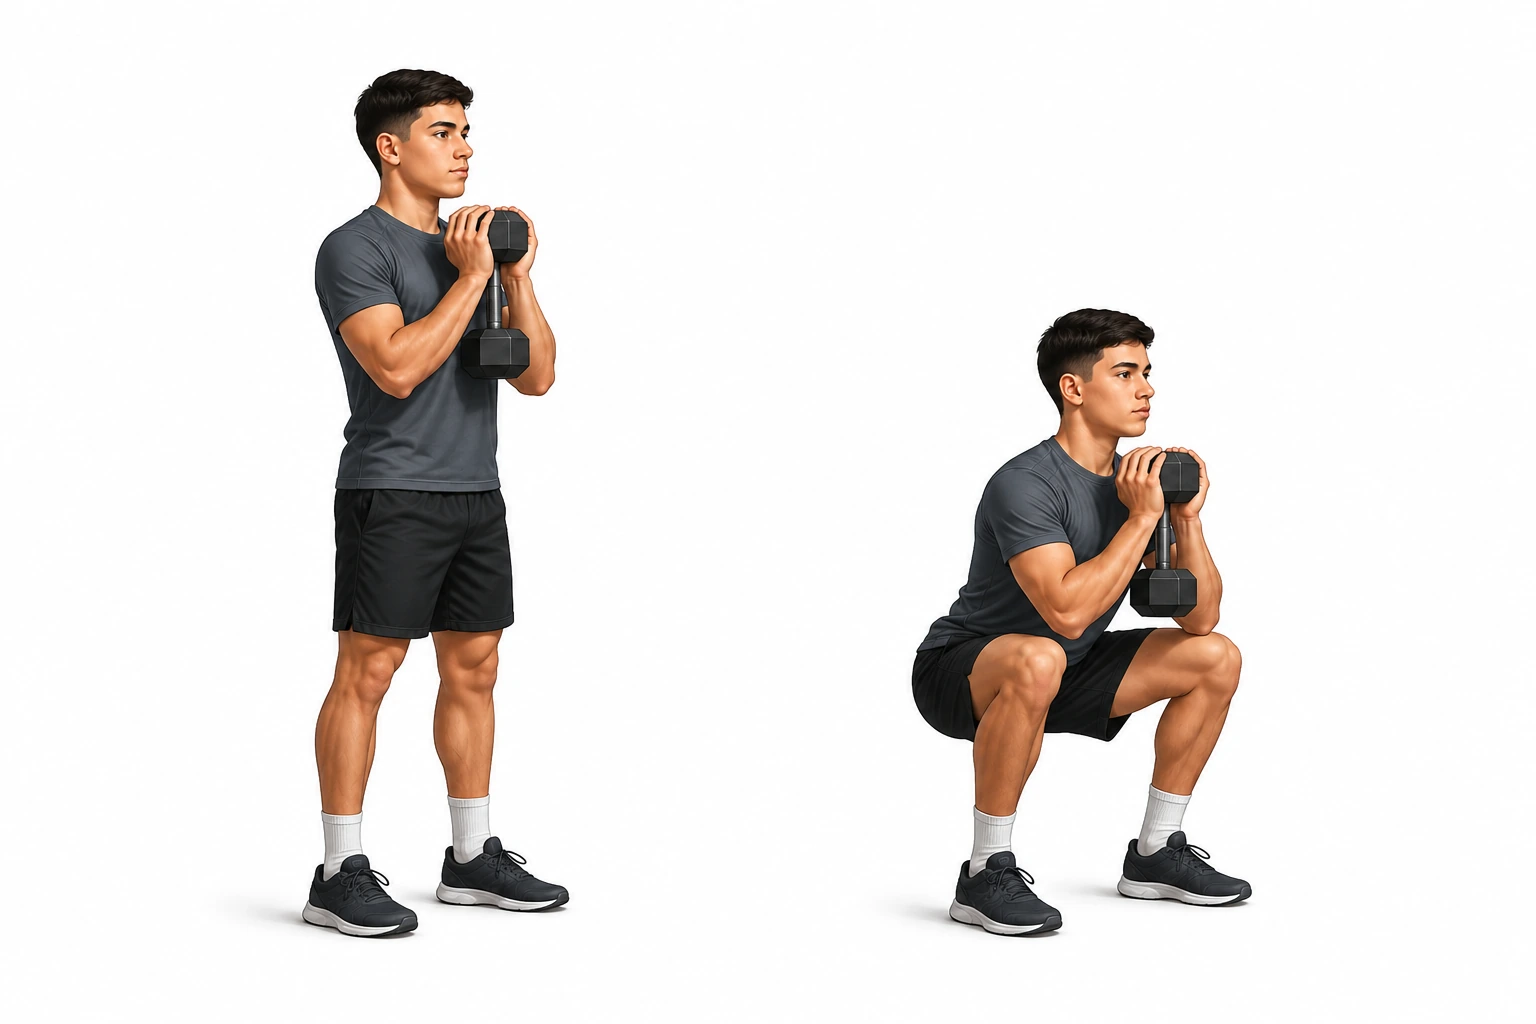
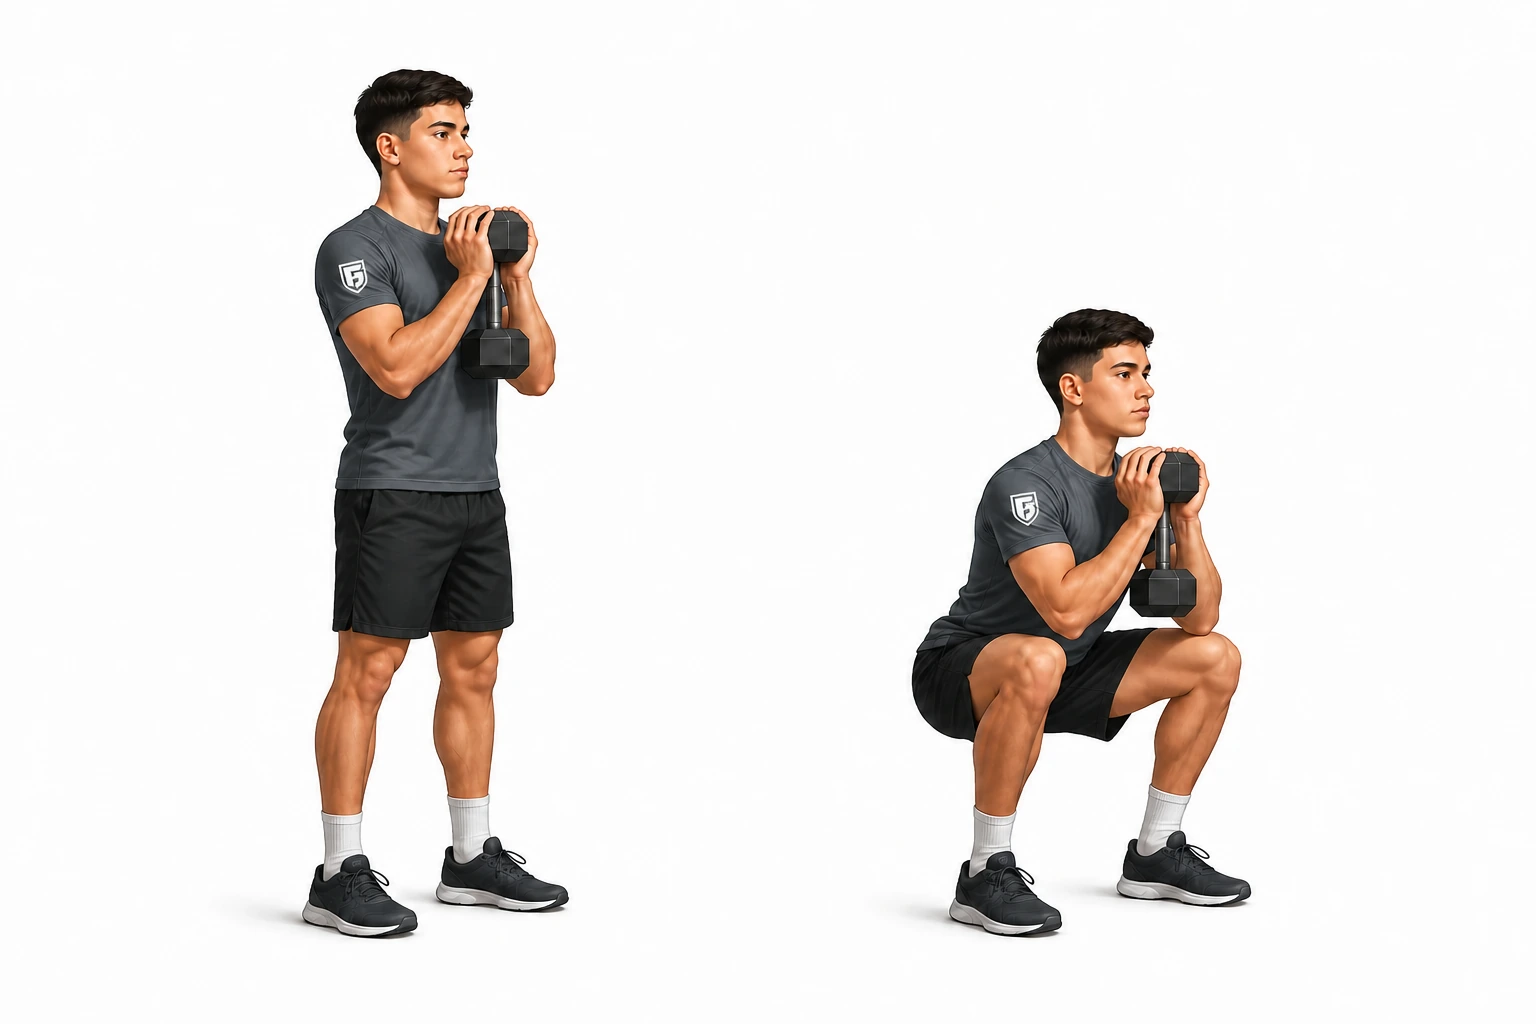
visual: approve EX-002 level 1 and add level 2 candidate

diff --git a/assets/exercises/ex-002/web/ex-002-goblet-squat-web.html b/assets/exercises/ex-002/web/ex-002-goblet-squat-web.html
@@ -1,0 +1,111 @@
+<!doctype html>
+<html lang="es">
+<head>
+  <meta charset="utf-8">
+  <meta name="viewport" content="width=device-width,initial-scale=1">
+  <title>EX-002 — Sentadilla goblet · Nivel 2</title>
+  <style>
+    :root {
+      --navy: #0b2a4a;
+      --blue: #1f5a9d;
+      --blue-soft: #e6f0fb;
+      --ink: #1a1f26;
+      --muted: #667085;
+      --line: #cbd9e8;
+      --paper: #ffffff;
+      --canvas: #f2f4f7;
+      --mint: #e8f7f1;
+      --red: #c6283d;
+      --red-soft: #fff1f2;
+    }
+    * { box-sizing: border-box; }
+    html, body { margin: 0; width: 1440px; height: 990px; overflow: hidden; }
+    body { background: var(--canvas); color: var(--ink); font-family: Inter, "Segoe UI", Arial, sans-serif; }
+    main { display: grid; grid-template-rows: 96px 1fr 58px; width: 100%; height: 100%; background: var(--paper); }
+    header { display: flex; align-items: center; justify-content: space-between; padding: 18px 44px; color: white; background: var(--navy); }
+    header img { width: 226px; height: 56px; object-fit: contain; filter: brightness(0) invert(1); }
+    header span { font-size: 15px; font-weight: 700; letter-spacing: .22em; text-transform: uppercase; }
+    .content { display: grid; grid-template-columns: 760px 1fr; gap: 22px; padding: 24px 34px 20px; min-height: 0; }
+    .left { display: grid; grid-template-rows: auto 1fr auto; min-height: 0; }
+    .identity { display: flex; align-items: center; gap: 18px; }
+    .id { padding: 10px 24px; border-radius: 10px; color: white; background: var(--blue); font-size: 25px; font-weight: 800; }
+    h1 { margin: 0; color: var(--navy); font-size: 38px; line-height: 1; text-transform: uppercase; }
+    .hero { display: flex; align-items: center; justify-content: center; min-height: 0; padding: 4px 0; }
+    .hero img { display: block; width: 100%; max-height: 570px; object-fit: contain; }
+    .phases { display: grid; grid-template-columns: 1fr 1fr; gap: 12px; margin: 0 88px; }
+    .phase { display: flex; align-items: center; justify-content: center; gap: 10px; color: var(--navy); font-size: 17px; font-weight: 750; }
+    .phase b { display: grid; place-items: center; width: 32px; height: 32px; border-radius: 50%; color: white; background: var(--navy); }
+    .right { display: grid; grid-template-rows: auto auto 1fr auto; gap: 12px; min-height: 0; }
+    .summary { display: grid; grid-template-columns: repeat(3,1fr); gap: 10px; }
+    .pill { min-height: 86px; padding: 13px 14px; border: 1px solid var(--line); border-radius: 10px; background: var(--blue-soft); }
+    .pill small, .card h2 { display: block; margin: 0 0 7px; color: var(--blue); font-size: 13px; font-weight: 800; letter-spacing: .04em; text-transform: uppercase; }
+    .pill strong { color: var(--navy); font-size: 17px; line-height: 1.15; }
+    .keys { display: grid; grid-template-columns: repeat(4,1fr); gap: 8px; }
+    .key { display: grid; place-items: center; min-height: 82px; padding: 8px; border: 1px solid var(--line); border-radius: 10px; color: var(--navy); background: white; text-align: center; font-size: 14px; font-weight: 750; }
+    .key img { width: 26px; height: 26px; margin-bottom: 4px; }
+    .grid { display: grid; grid-template-columns: 1fr 1fr; gap: 10px; min-height: 0; }
+    .card { padding: 14px 16px; border: 1px solid var(--line); border-radius: 10px; background: white; }
+    .card ul { margin: 0; padding-left: 18px; font-size: 14px; line-height: 1.35; }
+    .card li + li { margin-top: 4px; }
+    .modify { border-color: #efb6be; background: var(--red-soft); }
+    .modify h2 { color: var(--red); }
+    .adapt { background: var(--mint); }
+    .example { display: grid; grid-template-columns: 1fr auto; align-items: center; gap: 12px; padding: 14px 16px; border-radius: 10px; color: var(--navy); background: var(--blue-soft); }
+    .example strong { font-size: 16px; }
+    .example span { color: var(--muted); font-size: 12px; font-weight: 700; text-transform: uppercase; }
+    footer { display: flex; align-items: center; justify-content: space-between; padding: 0 42px; color: var(--navy); background: #e4edf7; font-size: 14px; font-weight: 700; }
+    footer img { width: 160px; height: 38px; object-fit: contain; }
+  </style>
+</head>
+<body>
+  <main>
+    <header>
+      <img src="../../../brand/master/forja-lockup-horizontal.svg" alt="FORJA">
+      <span>Ficha visual de ejercicio · Nivel 2</span>
+    </header>
+    <section class="content">
+      <div class="left">
+        <div class="identity"><span class="id">EX-002</span><h1>Sentadilla goblet</h1></div>
+        <div class="hero"><img src="../master/ex-002-goblet-squat-master.webp" alt="Joven deportista en posición inicial e inferior de una sentadilla goblet"></div>
+        <div class="phases"><div class="phase"><b>1</b>Inicio</div><div class="phase"><b>2</b>Descenso</div></div>
+      </div>
+      <aside class="right">
+        <div class="summary">
+          <div class="pill"><small>Objetivo</small><strong>Desarrollar fuerza</strong></div>
+          <div class="pill"><small>Patrón</small><strong>Dominante de rodilla</strong></div>
+          <div class="pill"><small>Material</small><strong>Mancuerna o kettlebell</strong></div>
+        </div>
+        <div class="keys">
+          <div class="key"><img src="../../../icons/equipment/dumbbell.svg" alt="">Carga cerca</div>
+          <div class="key"><img src="../../../icons/decisions/competency.svg" alt="">Apoyo estable</div>
+          <div class="key"><img src="../../../icons/prescription/quality.svg" alt="">Baja con control</div>
+          <div class="key"><img src="../../../icons/decisions/increase-demand.svg" alt="">Empuja el suelo</div>
+        </div>
+        <div class="grid">
+          <section class="card">
+            <h2>Competencia observable</h2>
+            <ul><li>Sostiene la carga con seguridad.</li><li>Mantiene apoyo estable.</li><li>Controla descenso y ascenso.</li><li>Utiliza un rango apropiado.</li><li>Repite sin molestias relevantes.</li></ul>
+          </section>
+          <section class="card modify">
+            <h2>Modifica la tarea si…</h2>
+            <ul><li>La carga impide mantener competencia.</li><li>Pierde repetidamente equilibrio o control.</li><li>La fatiga cambia claramente la ejecución.</li><li>Aparece dolor.</li></ul>
+          </section>
+          <section class="card">
+            <h2>No corrijas automáticamente</h2>
+            <ul><li>Anchura u orientación individual de los pies.</li><li>Inclinación razonable del tronco.</li><li>Diferencias de profundidad apropiadas.</li></ul>
+          </section>
+          <section class="card adapt">
+            <h2>Adapta según el problema</h2>
+            <ul><li>Más accesible: reduce carga o dosis.</li><li>Puede usarse sentadilla libre o EX-001.</li><li>Cambia carga, rango, volumen o intención cuando aporte valor.</li></ul>
+          </section>
+        </div>
+        <div class="example">
+          <strong>Ejemplo contextual: 2–3 series · 6–8 repeticiones · margen antes del fallo · recuperación suficiente</strong>
+          <span>No es una receta universal</span>
+        </div>
+      </aside>
+    </section>
+    <footer><span>Calidad antes que cantidad · detener o modificar ante dolor</span><img src="../../../brand/master/forja-lockup-horizontal.svg" alt="FORJA"></footer>
+  </main>
+</body>
+</html>

diff --git a/assets/preview.html b/assets/preview.html
@@ -56,6 +56,13 @@
     </div>
   </section>
   <section>
+    <h2>EX-002 — Candidato Nivel 2</h2>
+    <div class="card">
+      <img src="exercises/ex-002/web/ex-002-goblet-squat-web.webp" style="display:block;width:100%;height:auto" alt="Infografía web de la sentadilla goblet">
+      <code>exercises/ex-002/web/ex-002-goblet-squat-web.webp · DRAFT</code>
+    </div>
+  </section>
+  <section>
     <h2>Legibilidad del símbolo</h2>
     <div class="card sizes">
       <figure><img src="brand/master/forja-symbol.svg" width="20" height="23" alt="Símbolo FJ a 20 px"><figcaption>20 px</figcaption></figure>

diff --git a/assets/exercises/ex-002/README.md b/assets/exercises/ex-002/README.md
@@ -14,8 +14,7 @@ decisiones, prescripciones ni criterios que no estén respaldados por ella.
 
 Representación maestra del ejercicio.
 
-- **Estado:** candidato de producción incorporado; revisión visual humana
-  pendiente.
+- **Estado:** aprobado para continuar la validación del sistema visual.
 - **Nombre reservado:**
   `assets/exercises/ex-002/master/ex-002-goblet-squat-master.webp`.
 
@@ -23,8 +22,8 @@ Representación maestra del ejercicio.
 
 Representación explicativa para web o aplicación basada en el Nivel 1.
 
-- **Estado:** aprobado conceptualmente; asset definitivo pendiente de
-  incorporar.
+- **Estado:** candidato de producción incorporado; revisión visual humana
+  pendiente.
 - **Nombre reservado:**
   `assets/exercises/ex-002/web/ex-002-goblet-squat-web.webp`.
 
@@ -37,9 +36,10 @@ Representación compacta para consulta durante la sesión.
 - **Nombre reservado:**
   `assets/exercises/ex-002/session/ex-002-goblet-squat-session.webp`.
 
-El candidato de Nivel 1 existe en la ruta reservada. Los archivos definitivos
-de Nivel 2 y Nivel 3 todavía no existen y no deben sustituirse por binarios
-placeholder ni por imágenes reconstruidas desde Markdown o screenshots.
+Los activos de Nivel 1 y el candidato de Nivel 2 existen en sus rutas
+reservadas. El archivo definitivo de Nivel 3 todavía no existe y no debe
+sustituirse por un binario placeholder ni por una imagen reconstruida desde
+Markdown o screenshots.
 
 Las referencias visuales aprobadas se conservan separadamente en
 [`assets/references/visual/ex-002/`](../../references/visual/ex-002/). Son
@@ -47,18 +47,18 @@ material de revisión, no activos de producción.
 
 Permanece pendiente:
 
-- revisar y aprobar la ilustración candidata de Nivel 1;
-- la infografía definitiva de Nivel 2;
+- revisar y aprobar la infografía candidata de Nivel 2;
 - la ficha rápida definitiva de Nivel 3.
 
-## Revisión del candidato de Nivel 1
+## Nivel 1 aprobado
 
 El archivo
 [`ex-002-goblet-squat-master.webp`](master/ex-002-goblet-squat-master.webp)
 es una ilustración original generada específicamente para FORJA a partir del
-brief aprobado. Utiliza fondo blanco editorial; no contiene transparencia.
+brief aprobado. Utiliza fondo blanco editorial, incorpora el símbolo FJ
+candidato en la manga y no contiene transparencia.
 
-Antes de promoverlo a `APPROVED` deben revisarse expresamente:
+La revisión humana ha aprobado:
 
 - agarre y posición de la mancuerna;
 - manos, pies y apoyos;
@@ -66,6 +66,22 @@ Antes de promoverlo a `APPROVED` deben revisarse expresamente:
 - anatomía y edad visual del deportista;
 - legibilidad al reducirlo;
 - fidelidad al brief y ausencia de reglas técnicas añadidas.
+
+## Revisión del candidato de Nivel 2
+
+El candidato visual es
+[`ex-002-goblet-squat-web.webp`](web/ex-002-goblet-squat-web.webp) y su fuente
+editable es
+[`ex-002-goblet-squat-web.html`](web/ex-002-goblet-squat-web.html).
+
+Antes de promoverlo a `APPROVED` deben revisarse:
+
+- jerarquía y lectura rápida;
+- fidelidad del texto a la ficha EX-002;
+- tamaño y utilidad de la ilustración;
+- selección de competencia y criterios de modificación;
+- representación no normativa de la variabilidad individual;
+- legibilidad del aviso de ejemplo contextual no universal.
 
 No se ha vectorizado automáticamente al deportista de las referencias.
 

diff --git a/assets/manifest.md b/assets/manifest.md
@@ -14,8 +14,8 @@ Estados permitidos: `REFERENCE`, `DRAFT`, `MASTER`, `APPROVED` y `PENDING`.
 | EX-002 Level 1 reference | Referencia visual | Nivel 1 | REFERENCE | `assets/references/visual/ex-002/extracted/forja_visual_pack_ex002/exercises/ex-002/master/ex-002-goblet-squat-master-concept-v1.png` |
 | EX-002 Level 2 reference | Referencia visual | Nivel 2 | REFERENCE | `assets/references/visual/ex-002/extracted/forja_visual_pack_ex002/exercises/ex-002/web/ex-002-goblet-squat-web-v1.png` |
 | EX-002 Level 3 reference | Referencia visual | Nivel 3 | REFERENCE | `assets/references/visual/ex-002/extracted/forja_visual_pack_ex002/brand/prototypes/forja-brand-and-session-concept-v1.png` |
-| EX-002 master | Ejercicio | Nivel 1 | DRAFT | `assets/exercises/ex-002/master/ex-002-goblet-squat-master.webp` |
-| EX-002 web | Ejercicio | Nivel 2 | PENDING | `assets/exercises/ex-002/web/ex-002-goblet-squat-web.webp` |
+| EX-002 master | Ejercicio | Nivel 1 | APPROVED | `assets/exercises/ex-002/master/ex-002-goblet-squat-master.webp` |
+| EX-002 web | Ejercicio | Nivel 2 | DRAFT | `assets/exercises/ex-002/web/ex-002-goblet-squat-web.webp` |
 | EX-002 session | Ejercicio | Nivel 3 | PENDING | `assets/exercises/ex-002/session/ex-002-goblet-squat-session.webp` |
 | Brand PNG derivatives | Marca | Derived | PENDING | `assets/brand/master/*.png` |
 

diff --git a/docs/05-exercises/visual-production-system.md b/docs/05-exercises/visual-production-system.md
@@ -271,8 +271,8 @@ Estos valores no son una prescripción permanente.
 
 [EX-002 — Sentadilla goblet](library/ex-002-goblet-squat.md) es la referencia visual inicial.
 
-- Nivel 1: candidato de producción almacenado; revisión visual pendiente.
-- Nivel 2: validación conceptual completada; activo no almacenado.
+- Nivel 1: aprobado; activo almacenado.
+- Nivel 2: candidato de producción almacenado; revisión visual pendiente.
 - Nivel 3: siguiente prototipo.
 
 La cabecera conceptual contiene EX-002, nombre, fuerza, dominante de rodilla, bilateral, carga externa y mancuerna o kettlebell.
@@ -392,7 +392,7 @@ No constituyen todavía un workflow técnico.
 | EX | Ficha | Brief | Nivel 1 | Nivel 2 | Nivel 3 |
 |---|---|---|---|---|---|
 | EX-001 | Utilizable | Brief listo | Pendiente | Pendiente | Pendiente |
-| EX-002 | Utilizable | Brief listo | Candidato almacenado; revisar | Validación conceptual; sin asset | Pendiente tras aprobar Nivel 1 |
+| EX-002 | Utilizable | Brief listo | Aprobado | Candidato almacenado; revisar | Pendiente tras aprobar Nivel 2 |
 | EX-003 | Utilizable | Brief listo | Pendiente | Pendiente | Pendiente |
 | EX-004 | Utilizable | Brief listo | Pendiente | Pendiente | Pendiente |
 | EX-005 | Utilizable | Brief listo | Pendiente | Pendiente | Pendiente |

diff --git a/CHANGELOG.md b/CHANGELOG.md
@@ -8,6 +8,7 @@ El proyecto seguirá versionado semántico cuando alcance su primera versión es
 
 ### Añadido
 
+- Candidato visual de Nivel 2 para EX-002 — Sentadilla goblet.
 - Candidato visual de Nivel 1 para EX-002 — Sentadilla goblet.
 - Fichas utilizables EX-013 — Plancha frontal, EX-014 — Pallof press y EX-015 — Suitcase carry para el lote de fuerza y control.
 - Fichas utilizables EX-008 a EX-012 para los patrones de empuje y tracción.
@@ -39,6 +40,7 @@ El proyecto seguirá versionado semántico cuando alcance su primera versión es
 
 ### Modificado
 
+- Nivel 1 de EX-002 aprobado con aplicación provisional del símbolo FJ en la manga.
 - Refinamiento del símbolo FJ candidato para aproximarlo al concepto de marca aprobado.
 - Precisión del nombre de EX-009 a "Press unilateral por encima de la cabeza con mancuerna", manteniendo su identidad metodológica y variante base de pie.
 - VIS-001 consolidado con arquitectura visual de tres niveles: ilustración maestra, infografía web y ficha rápida de sesión.
